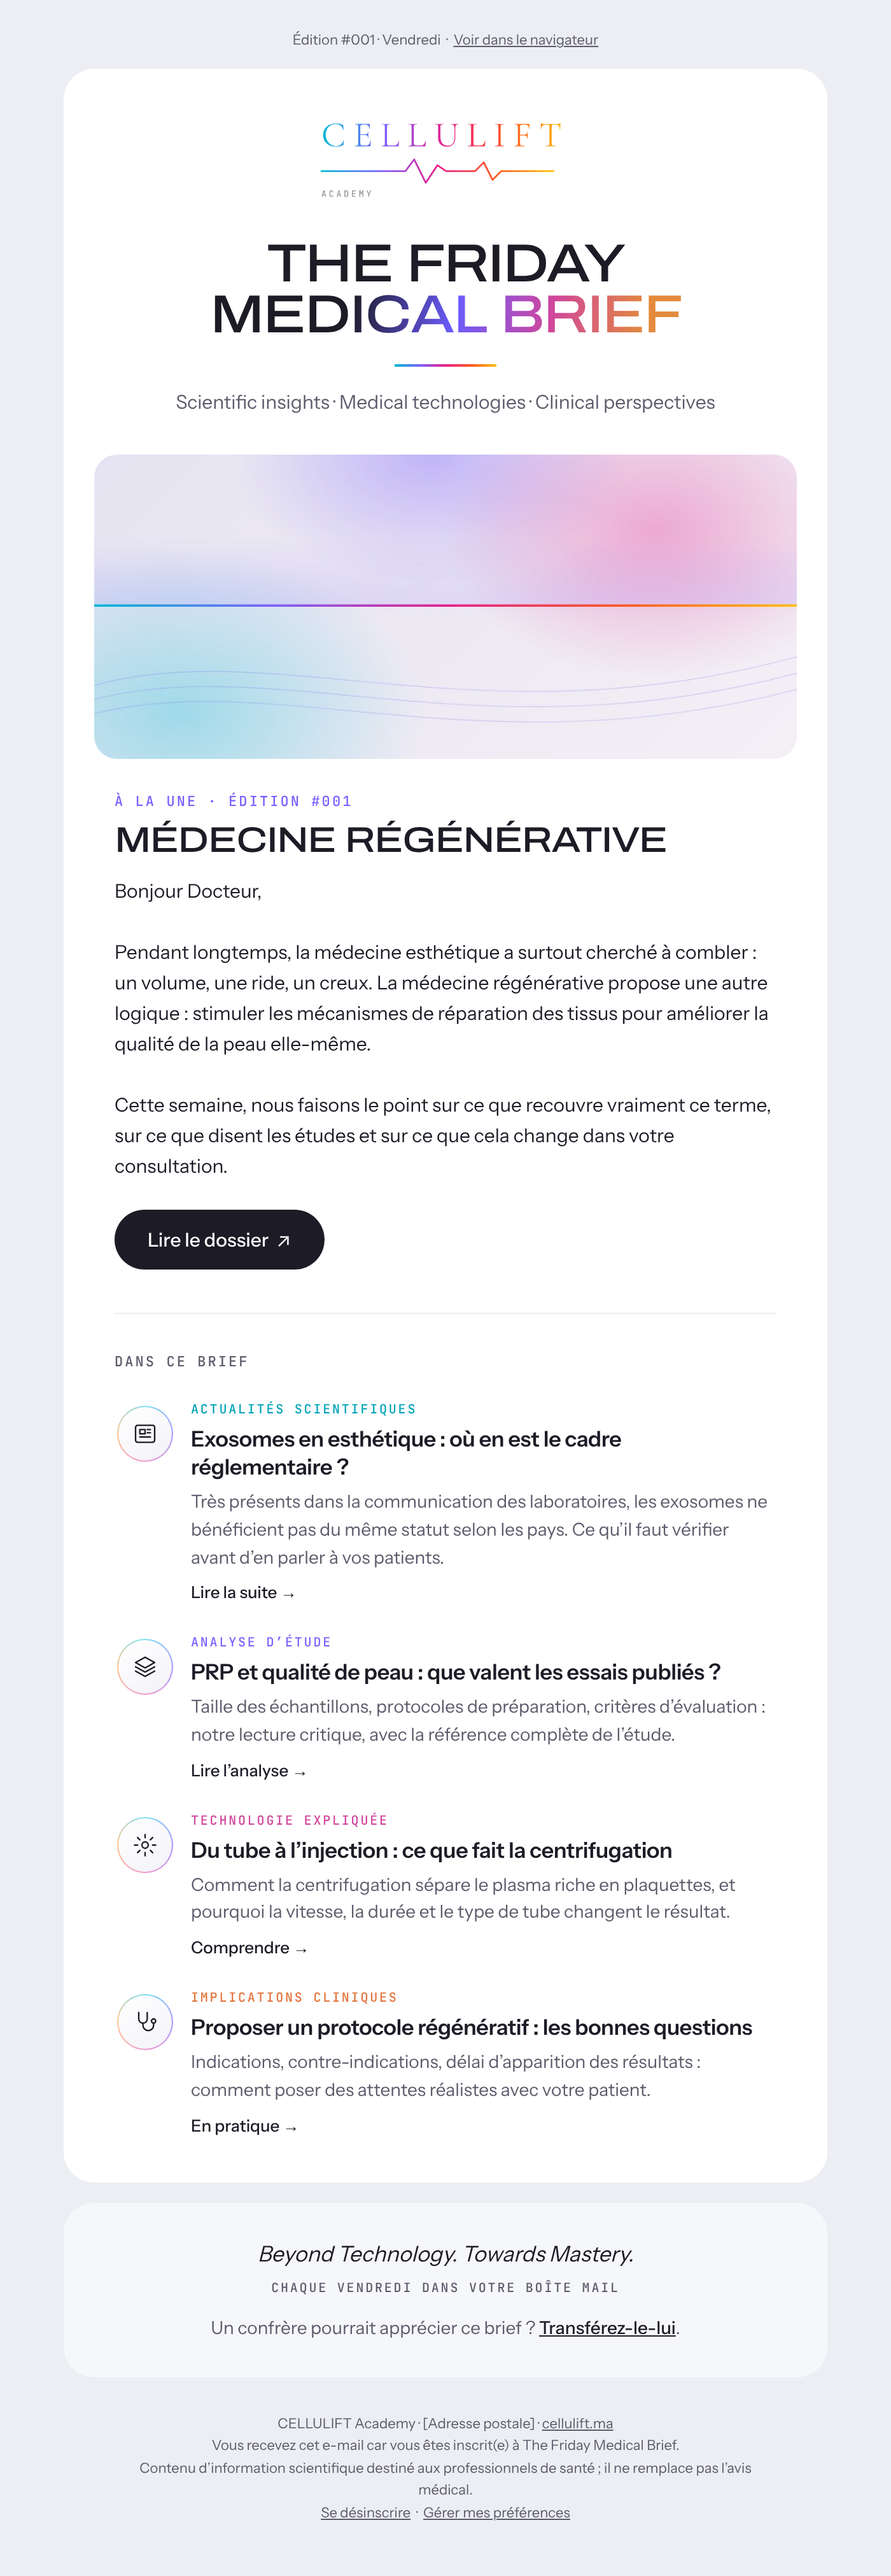
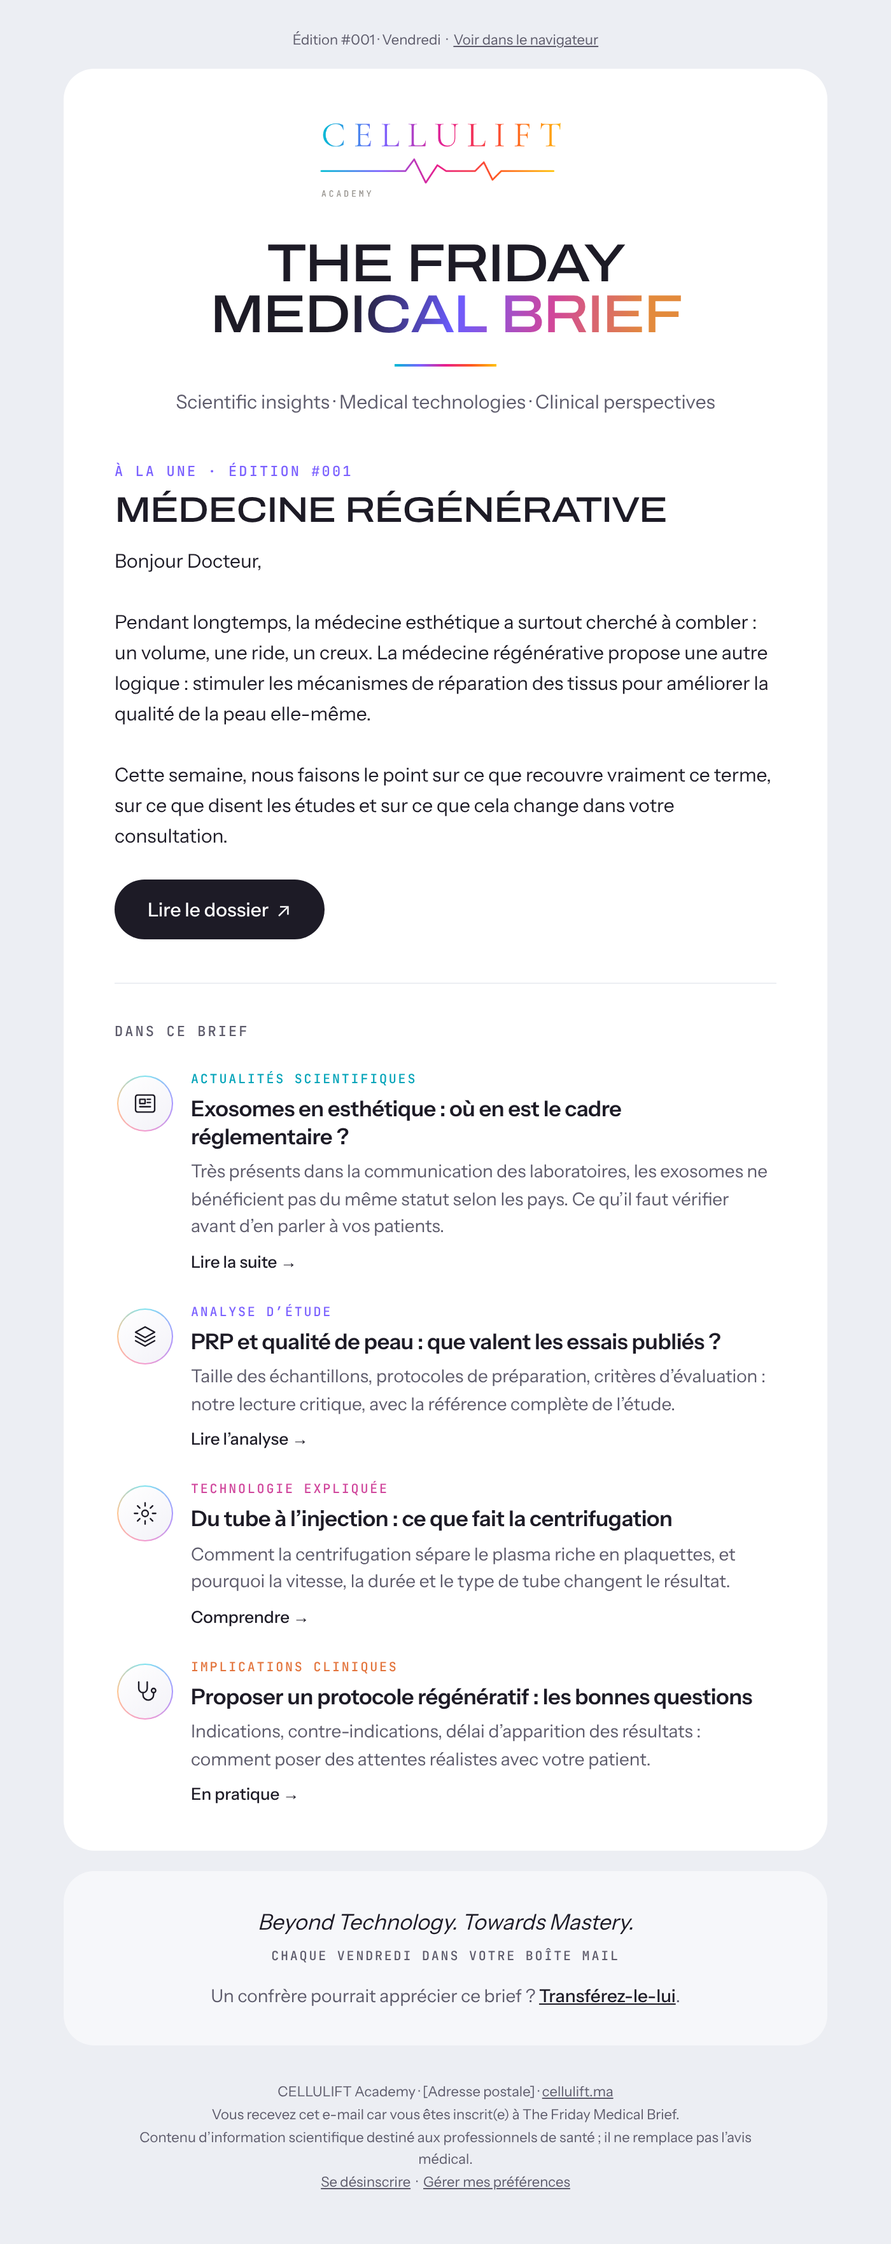
Newsletter : retrait de la bannière irisée
Claude-Session: https://claude.ai/code/session_013WzSXnYZRENhXh8EE8VY2P

diff --git a/academy/newsletter/email/friday-medical-brief-email.html b/academy/newsletter/email/friday-medical-brief-email.html
@@ -26,8 +26,7 @@
     .h1{font-size:34px!important}
     .h2{font-size:22px!important}
     .stack,.stack td{display:block!important;width:100%!important}
-    .hero img{width:100%!important;height:auto!important}
-  }
+      }
 </style>
 </head>
 <body style="margin:0;padding:0;background:#ECEEF3">
@@ -69,13 +68,8 @@
           Scientific insights · Medical technologies · Clinical perspectives
         </td></tr>
 
-        <!-- Image à la une -->
-        <tr><td class="hero" style="padding:0 24px">
-          <img src="img/hero.jpg" width="552" height="239" alt="" style="width:552px;height:auto;border-radius:18px">
-        </td></tr>
-
         <!-- À la une -->
-        <tr><td class="px" style="padding:26px 40px 0">
+        <tr><td class="px" style="padding:6px 40px 0">
           <div class="mono" style="font-family:'JetBrains Mono',Consolas,monospace;text-transform:uppercase;letter-spacing:.14em;font-size:11px;font-weight:500;color:#7B61FF">À la une · Édition #001</div>
           <div class="disp h2" style="font-family:'Archivo','Arial Narrow',Arial,sans-serif;font-stretch:118%;font-weight:500;text-transform:uppercase;letter-spacing:-.03em;font-size:28px;line-height:1;color:#1D1B26;padding-top:10px">Médecine régénérative</div>
           <div class="sans" style="font-family:'Instrument Sans',Helvetica,Arial,sans-serif;font-weight:300;font-size:15px;line-height:1.6;color:#1D1B26;padding-top:14px">

diff --git a/academy/newsletter/email/friday-medical-brief-brevo.html b/academy/newsletter/email/friday-medical-brief-brevo.html
@@ -26,8 +26,7 @@
     .h1{font-size:34px!important}
     .h2{font-size:22px!important}
     .stack,.stack td{display:block!important;width:100%!important}
-    .hero img{width:100%!important;height:auto!important}
-  }
+      }
 </style>
 </head>
 <body style="margin:0;padding:0;background:#ECEEF3">
@@ -69,13 +68,8 @@
           Scientific insights · Medical technologies · Clinical perspectives
         </td></tr>
 
-        <!-- Image à la une -->
-        <tr><td class="hero" style="padding:0 24px">
-          <img src="" width="552" height="239" alt="" style="width:552px;height:auto;border-radius:18px">
-        </td></tr>
-
         <!-- À la une -->
-        <tr><td class="px" style="padding:26px 40px 0">
+        <tr><td class="px" style="padding:6px 40px 0">
           <div class="mono" style="font-family:'JetBrains Mono',Consolas,monospace;text-transform:uppercase;letter-spacing:.14em;font-size:11px;font-weight:500;color:#7B61FF">À la une · Édition #001</div>
           <div class="disp h2" style="font-family:'Archivo','Arial Narrow',Arial,sans-serif;font-stretch:118%;font-weight:500;text-transform:uppercase;letter-spacing:-.03em;font-size:28px;line-height:1;color:#1D1B26;padding-top:10px">Médecine régénérative</div>
           <div class="sans" style="font-family:'Instrument Sans',Helvetica,Arial,sans-serif;font-weight:300;font-size:15px;line-height:1.6;color:#1D1B26;padding-top:14px">
